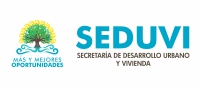
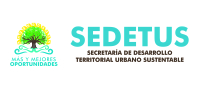
updating code

Changed region(s): [[0.33, 0.2727, 0.96, 0.75], [0.03, 0.2045, 0.33, 0.7727]]

diff --git a/reportes/constancia.php b/reportes/constancia.php
@@ -25,7 +25,7 @@ class PDF extends FPDF
 		// titulo
 
 		$this->MultiCell(197,5,"Gobierno del Estado de Quintana Roo",0,'C',0);
-		$this->MultiCell(197,5,utf8_decode("Secretaría de Desarrollo Urbano y Vivienda"),0,'C',0);
+		$this->MultiCell(197,5,utf8_decode("Secretaría de Desarrollo Territorial Urbano Sustentable"),0,'C',0);
 		$this->MultiCell(197,5,utf8_decode("Subsecretaría de Desarrollo Urbano"),0,'C',0);
 		$this->MultiCell(197,5,utf8_decode("DIRECCIÓN DE ADMINISTRACIÓN URBANA"),0,'C',0);
 		$this->SetFont('Arial','',8);

diff --git a/reportes/constancias.php b/reportes/constancias.php
@@ -19,7 +19,7 @@ private $status=1;
 		$this->SetFont('Arial','B',14);
 	
 		// titulo
-		$this->MultiCell(260,6,"SECRETAR�A DE DESARROLLO URBANO",0,'C',0);
+		$this->MultiCell(260,6,"SECRETAR�A DE DESARROLLO TERRITORIAL URBANO SUSTENTABLE",0,'C',0);
 		$this->SetFont('Arial','B',12);
 		$this->MultiCell(260,6,"Sistema de Control de Constancias de Compatibilidad Urban�stica",0,'C',0);
 		$this->SetX(55);

diff --git a/libreria/config.php b/libreria/config.php
@@ -26,7 +26,7 @@ $Servidor='localhost';
 $UsrMysql='root'; 
 
 //$ClaveMysql='shalala';
-$ClaveMysql='admin';
+$ClaveMysql='SeDB.2015';
 
 $DB='constancias';
 
